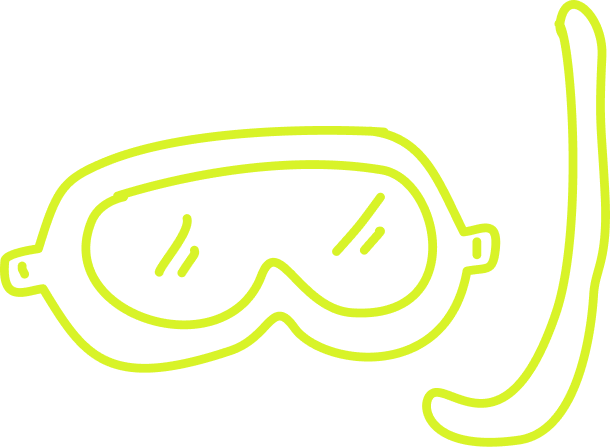
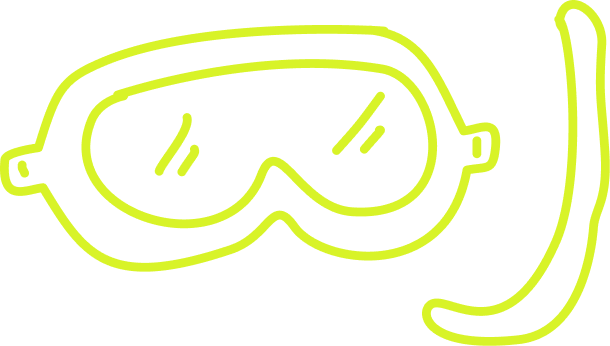
corkboard

diff --git a/src/lib/components/Scrapbook.svelte b/src/lib/components/Scrapbook.svelte
@@ -1,0 +1,97 @@
+<script lang="ts">
+	import { page } from '$app/state';
+	import { onMount } from 'svelte';
+	import Image from '$lib/helpers/Image.svelte';
+	import LastFM from '$lib/components/LastFM.svelte';
+	import Books from '$lib/components/Books.svelte';
+	import Polaroids from '$lib/components/Polaroids.svelte';
+	import md from '$lib/utils/md';
+
+	let content = page.data.about_long;
+	let Piano: typeof import('svelte-piano').Piano | null = $state(null);
+
+	onMount(async () => {
+		const module = await import('svelte-piano');
+		Piano = module.Piano;
+	});
+</script>
+
+<div class="relative">
+	<div class="-z-10">
+		<div class="cork-bg absolute inset-0"></div>
+		<div class="bg-black/10 absolute inset-0"></div>
+	</div>
+
+	<div
+		class="flex flex-col gap-10 relative py-16 px-4 border-5 lg:border-15 border-y-[#975f20] border-x-[#c77b1e]"
+	>
+		<div
+			class="flex lg:flex-row flex-col gap-20 lg:gap-32 w-full items-center justify-center relative lg:max-w-3/4 mx-auto"
+		>
+			<!-- fav songs -->
+			<LastFM />
+
+			<div class="flex flex-col gap-20 items-center justify-center">
+				<!-- red line -->
+				<Image
+					src="redline.png"
+					alt="redline"
+					class="w-full max-w-sm h-auto  hover:scale-103 hover:-rotate-2 transition-all duration-300"
+				/>
+
+				<!-- reads -->
+				<div
+					class="w-full bg-linear-to-b from-[#f7e99d] to-[#f0e181] max-w-70 min-h-70 text-black rotate-4"
+				>
+					<div class="relative flex items-center justify-center w-full h-12">
+						<div class="absolute inset-0 bg-[#f0e181]"></div>
+						<p class="font-terminal text-3xl lg:text-4xl relative z-10 uppercase">
+							{content.text[1].title}
+						</p>
+					</div>
+					<ol class="flex flex-col px-6 py-4">
+						{#each content.text[1].desc as item}
+							<a href={item.href} target="_blank" rel="noopener noreferrer" class="hover:underline">
+								<li class="font-terminal text-xl lg:text-2xl">
+									{item.title}
+								</li>
+							</a>
+						{/each}
+					</ol>
+				</div>
+			</div>
+		</div>
+
+		<div class="w-full lg:max-w-3/4 mx-auto mt-10">
+			<Polaroids />
+		</div>
+
+		<div
+			class="flex flex-col lg:flex-row w-full justify-around items-center lg:gap-5 gap-10 -mt-10 lg:mt-0"
+		>
+			<Books />
+
+			{#if Piano}
+				<div class="-rotate-2 flex flex-col items-end justify-end w-full max-w-lg gap-4">
+					<Piano --width="100%" --height="250px" />
+					<div
+						class="w-full bg-linear-to-b from-[#f7e99d] to-[#f0e181] max-w-50 min-h-50 text-black rotate-4 items-center justify-center flex mr-10"
+					>
+						<div class="h-8 bg-[#f0e181] absolute inset-0"></div>
+
+						<p class="font-rock-salt text-sm lg:text-base text-black text-center p-4">
+							{@html content.text[3].desc}
+						</p>
+					</div>
+				</div>
+			{/if}
+		</div>
+	</div>
+</div>
+
+<style>
+	.cork-bg {
+		background-image: url('/assets/images/cork.webp');
+		background-repeat: repeat;
+	}
+</style>

diff --git a/src/routes/personal/+page.svelte b/src/routes/personal/+page.svelte
@@ -71,7 +71,7 @@
 								loop
 								muted
 								playsinline
-								preload="auto"
+								preload="metadata"
 								aria-label="screencapture"
 							>
 								<source src={`/assets/cover_vids/${item.cover}`} type="video/mp4" />
@@ -139,7 +139,7 @@
 							loop
 							muted
 							playsinline
-							preload="auto"
+							preload="metadata"
 							aria-label="screencapture"
 						>
 							<source src={`/assets/cover_vids/${item.cover}`} type="video/mp4" />
@@ -186,7 +186,7 @@
 								loop
 								muted
 								playsinline
-								preload="auto"
+								preload="metadata"
 								aria-label="screencapture"
 							>
 								<source src={`/assets/cover_vids/${item.cover}`} type="video/mp4" />
@@ -232,7 +232,19 @@
 
 		<div class="flex flex-row gap-4 items-center">
 			<p class="entry-heading lowercase text-white">and more to come!</p>
-			<Image src="doodles/scuba.png" alt="scuba" class="w-12 md:w-16" />
+			<div class="relative group lg:mt-2">
+				<Image src="doodles/scuba.png" alt="scuba" class="w-12 md:w-16" />
+				<Image
+					src="doodles/scuba_bubble1.png"
+					alt="scuba bubble"
+					class="w-1.5 absolute right-0.5 -top-2.5 opacity-0 group-hover:opacity-100 transition-opacity duration-300"
+				/>
+				<Image
+					src="doodles/scuba_bubble2.png"
+					alt="scuba bubble"
+					class="w-1.5 absolute right-0.5 -top-5 opacity-0 group-hover:opacity-100 delay-200 transition-opacity duration-300"
+				/>
+			</div>
 		</div>
 	</div>
 </section>

diff --git a/src/routes/+page.svelte b/src/routes/+page.svelte
@@ -1,7 +1,7 @@
 <script lang="ts">
 	import Radio from '$lib/helpers/Radio.svelte';
 	import Image from '$lib/helpers/Image.svelte';
-	import MoreAboutMe from '$lib/components/MoreAboutMe.svelte';
+	import Scrapbook from '$lib/components/Scrapbook.svelte';
 	import MePath from '$lib/components/MePath.svelte';
 	import { page } from '$app/state';
 	import md from '$lib/utils/md';
@@ -53,8 +53,8 @@
 							{@html md(content.about_short.text)}
 						</div>
 					{:else}
-						<div class="mt-10">
-							<MoreAboutMe />
+						<div class="mt-10 -mx-[5vw] lg:mx-0">
+							<Scrapbook />
 						</div>
 					{/if}
 				</div>

diff --git a/src/routes/+layout.svelte b/src/routes/+layout.svelte
@@ -76,8 +76,8 @@
 		width={1920}
 		quality={80}
 	/>
-	<div class="absolute inset-0 bg-accent-teal/40 mix-blend-color"></div>
-	<div class="absolute inset-0 bg-black/40"></div>
+	<div class="absolute inset-0 bg-accent-green/40 mix-blend-color"></div>
+	<div class="absolute inset-0 bg-black/30"></div>
 </div>
 
 <div class="max-w-screen-2xl mx-auto">

diff --git a/src/lib/styles/tokens.css b/src/lib/styles/tokens.css
@@ -12,7 +12,7 @@
 	--color-accent-blue: #66adb5;
 	--color-accent-cream: #f3e3cf;
 	--color-accent-purple: #ab9df2;
-	/* ab9df2 */
+	/* ab9df2  A8BAFF */
 	--color-accent-teal: #012828;
 	--color-accent-orange: #ca9248;
 	--color-accent-pink: #e56684;

diff --git a/src/routes/work/+page.svelte b/src/routes/work/+page.svelte
@@ -28,7 +28,7 @@
 								loop
 								muted
 								playsinline
-								preload="auto"
+								preload="metadata"
 								aria-label="screencapture"
 							>
 								<source src={`/assets/cover_vids/${item.cover}`} type="video/mp4" />

diff --git a/svelte.config.js b/svelte.config.js
@@ -33,7 +33,7 @@ export default {
 			images: {
 				sizes: [640, 828, 1200, 1920],
 				formats: ['image/avif', 'image/webp'],
-				minimumCacheTTL: 300,
+				minimumCacheTTL: 86400,
 				domains: ['florinasutanto.com']
 			}
 		})
